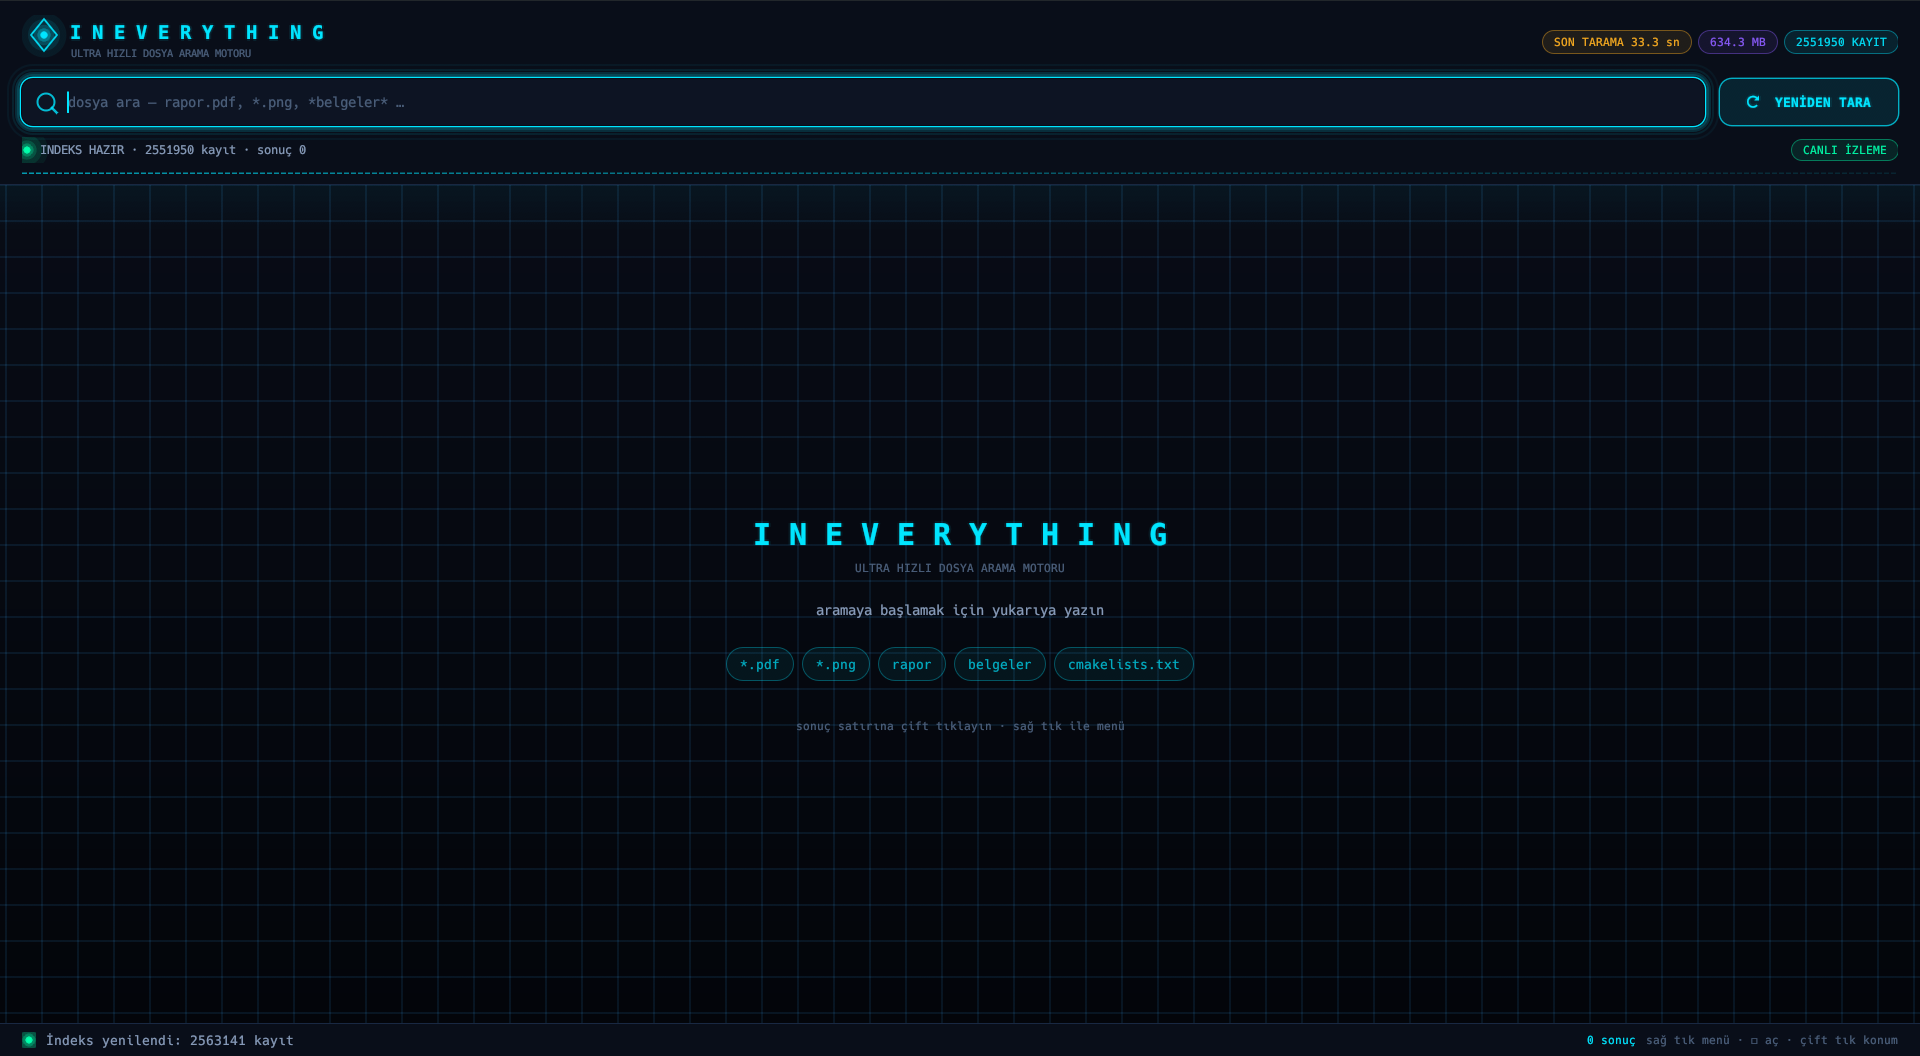
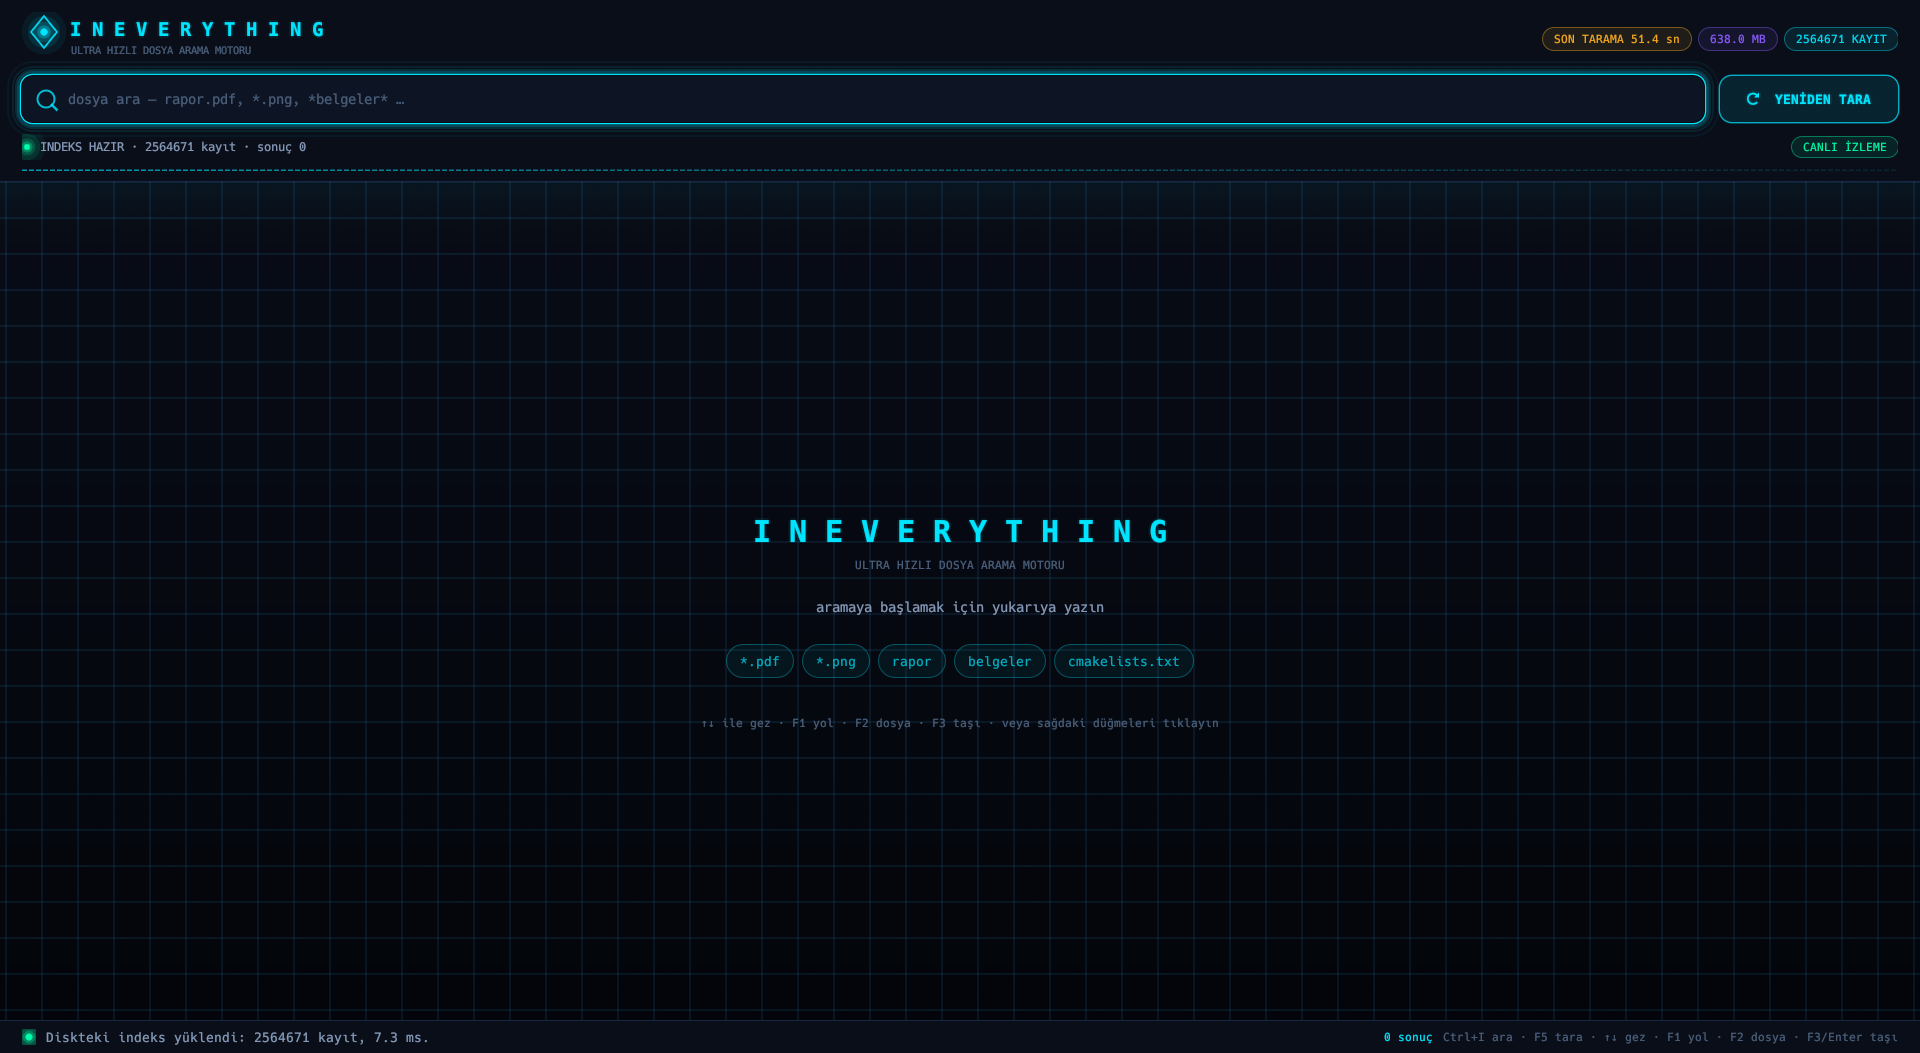
feat(klavye): F1/F2/F3 kısayolları, otomatik ilk satır seçimi, yön tuşu düzeltmesi
- F1 yol kopyala, F2 dosya kopyala, F3/Enter taşı (Ctrl+C winit Copy olayına takılıyordu)
- Yeni sonuçta ilk satır otomatik seçilir, Home/End eklendi
- Her karede arama gönderme düzeltildi (seçim başa sarmıyordu)
- İŞLEM-DEĞİŞTİRİLME aralığı açıldı, README güncellendi

diff --git a/src/app.rs b/src/app.rs
@@ -12,7 +12,7 @@ use std::sync::{
 };
 use std::time::{Duration, SystemTime};
 
-use crossbeam_channel::{Receiver, Sender, TryRecvError};
+use crossbeam_channel::{Receiver, Sender};
 use eframe::egui::{self, Align2, Color32, Pos2, Rect, Rounding, Sense, Vec2};
 
 use crate::{
@@ -47,7 +47,7 @@ const YOL_DEGISTIR_EN: f32 = 94.0;
 /// İki eylem düğmesi arasındaki boşluk.
 const BUTON_ARA: f32 = 6.0;
 /// Düğmeler ile zaman sütunu arasındaki boşluk.
-const BUTON_SOL_PAY: f32 = 12.0;
+const BUTON_SOL_PAY: f32 = 28.0;
 /// Eylem düğmelerinin kapladığı toplam genişlik (zaman sütunu bunu çıkarır).
 const DUGME_ALANI: f32 =
     YOL_KOPYA_EN + BUTON_ARA + DOSYA_KOPYA_EN + BUTON_ARA + YOL_DEGISTIR_EN + BUTON_SOL_PAY;
@@ -269,13 +269,15 @@ impl InEverythingApp {
 
     /// Kanallardan gelen arama sonuçlarını ve değişiklikleri işler.
     fn kanallari_yokla(&mut self) {
-        match self.arama_sonuc_rx.try_recv() {
-            Ok(sonuclar) => {
-                self.sonuclar = sonuclar;
-                self.satirlari_kur();
-                self.secili = None;
-            }
-            Err(TryRecvError::Empty | TryRecvError::Disconnected) => {}
+        // Bekleyen sonuçların en güncesini al; aradakiler bayat sorgulara ait
+        // olabilir. Tek tek uygulamak seçimi her karede başa sarardı.
+        let mut yeni_sonuc = None;
+        while let Ok(sonuclar) = self.arama_sonuc_rx.try_recv() {
+            yeni_sonuc = Some(sonuclar);
+        }
+        if let Some(sonuclar) = yeni_sonuc {
+            self.sonuclar = sonuclar;
+            self.satirlari_kur();
         }
 
         // Tarama bitti: sonuçlar eski indekse ait olabilir.
@@ -287,7 +289,9 @@ impl InEverythingApp {
         }
 
         let mut degisiklik_var = false;
+        let mut canli_degisti = false;
         while let Ok(d) = self.degisiklik_rx.try_recv() {
+            canli_degisti = true;
             if let Ok(mut katman) = self.canli.write() {
                 katman.kaydet(&d);
                 if katman.asildi_mi() && !self.taraniyor.load(Ordering::Relaxed) {
@@ -298,7 +302,13 @@ impl InEverythingApp {
         if degisiklik_var {
             self.tarama_tetikle(&self.yapilandirma.etkin_kokler());
         } else if !self.sorgu_metni.trim().is_empty() {
-            self.aramayi_tetikle();
+            // Her karede arama gönderme: seçim başa sarar ve kanalı şişirir.
+            // Yalnızca sorgu değiştiyse ya da canlı katman değiştiyse ara.
+            if self.sorgu_metni != self.son_sorgu || canli_degisti {
+                self.aramayi_tetikle();
+            }
+        } else if self.sorgu_metni != self.son_sorgu {
+            self.son_sorgu = self.sorgu_metni.clone();
         }
     }
 
@@ -316,6 +326,9 @@ impl InEverythingApp {
     }
 
     /// Sonuç vektöründen çizilecek satır listesini kurar.
+    ///
+    /// Yeni sonuç geldiğinde seçim doğal olarak en üst satıra alınır, böylece
+    /// yön tuşları ve F1/F2/F3 kısayolları ek tuşa gerek kalmadan çalışır.
     fn satirlari_kur(&mut self) {
         self.satirlar.clear();
         self.satirlar.extend(
@@ -332,6 +345,8 @@ impl InEverythingApp {
                 .take(self.yapilandirma.sonuc_limiti)
                 .map(|konum| Satir::Indeks(*konum)),
         );
+        self.secili = self.satirlar.first().map(satir_konumu);
+        self.secili_gorunur = false;
     }
 
     /// İndeksteki kayıt sayısı.
@@ -342,14 +357,16 @@ impl InEverythingApp {
             .unwrap_or(0)
     }
 
-    /// Seçili satırın yolunu döndürür; seçim yoksa en üst satırın yolunu.
+    /// Seçili satırın yolunu döndürür; seçim yoksa ya da bayatsa en üst
+    /// satırın yolunu.
     fn secili_veya_ilk_yolu(&self) -> Option<PathBuf> {
         let satir = match self.secili {
             Some(konum) => self
                 .satirlar
                 .iter()
                 .find(|s| satir_konumu(s) == konum)
-                .copied(),
+                .copied()
+                .or_else(|| self.satirlar.first().copied()),
             None => self.satirlar.first().copied(),
         }?;
         let okunan = self.indeks.read();
@@ -367,6 +384,18 @@ impl InEverythingApp {
     /// Seçimi bir önceki satıra taşır; seçim yoksa en alt satırı seçer.
     fn yukari_git(&mut self) {
         self.secili = onceki_konum(&self.satirlar, self.secili);
+        self.secili_gorunur = true;
+    }
+
+    /// Seçimi en üst satıra alır (Home).
+    fn basa_git(&mut self) {
+        self.secili = self.satirlar.first().map(satir_konumu);
+        self.secili_gorunur = true;
+    }
+
+    /// Seçimi en alt satıra alır (End).
+    fn sona_git(&mut self) {
+        self.secili = self.satirlar.last().map(satir_konumu);
         self.secili_gorunur = true;
     }
 
@@ -537,7 +566,6 @@ impl InEverythingApp {
             if self.sorgu_metni.trim().is_empty() {
                 self.sonuclar = Sonuclar::default();
                 self.satirlari_kur();
-                self.secili = None;
             } else {
                 self.aramayi_tetikle();
             }
@@ -835,7 +863,7 @@ impl InEverythingApp {
         p.text(
             Pos2::new(merkez.x, y + 78.0),
             Align2::CENTER_CENTER,
-            "sonuç satırına çift tıklayın · sağdaki YOLU KOPYALA, DOSYAYI KOPYALA ve YOLU DEĞİŞTİR düğmeleri",
+            "↑↓ ile gez · F1 yol · F2 dosya · F3 taşı · veya sağdaki düğmeleri tıklayın",
             tema::mono(11.0),
             tema::METIN_3,
         );
@@ -899,10 +927,10 @@ impl InEverythingApp {
             ui.with_layout(egui::Layout::right_to_left(egui::Align::Center), |ui| {
                 ui.label(
                     egui::RichText::new(
-                        "Ctrl+I ara · F5 tara · ↑↓ gez · Ctrl+Shift+C yol · Ctrl+C dosya · Enter taşı",
+                        "Ctrl+I ara · F5 tara · ↑↓ gez · F1 yol · F2 dosya · F3/Enter taşı",
                     )
-                        .font(tema::mono(11.0))
-                        .color(tema::METIN_3),
+                    .font(tema::mono(11.0))
+                    .color(tema::METIN_3),
                 );
                 ui.label(
                     egui::RichText::new(format!("{} sonuç", self.sonuclar.toplam()))
@@ -1015,16 +1043,31 @@ impl eframe::App for InEverythingApp {
     fn update(&mut self, ctx: &egui::Context, _cerceve: &mut eframe::Frame) {
         self.kanallari_yokla();
 
-        let (odak_istek, yeniden_tara, asagi, yukari, ctrl_c, ctrl_shift_c, enter) =
+        // Not: winit, Ctrl+C / Ctrl+Shift+C'yi `Event::Copy`'ye çevirip `Key::C`
+        // olayı üretmez; bu yüzden dosya işlemleri için F1/F2/F3 ve Ctrl+1/2/3
+        // kullanılır. Eski Ctrl+C tabanlı kısayollar da (web gibi Key olayı
+        // gelen platformlar için) yedek olarak dinlenmeye devam eder.
+        let (odak_istek, yeniden_tara, asagi, yukari, basa, sona, yol_kopya, dosya_kopya, tasi) =
             ctx.input(|g| {
+                let ctrl = g.modifiers.ctrl || g.modifiers.command;
+                let eski_yol = g.key_pressed(egui::Key::C) && ctrl && g.modifiers.shift;
+                let eski_dosya = g.key_pressed(egui::Key::C) && ctrl && !g.modifiers.shift;
                 (
-                    g.key_pressed(egui::Key::I) && g.modifiers.ctrl,
+                    g.key_pressed(egui::Key::I) && ctrl,
                     g.key_pressed(egui::Key::F5),
                     g.key_pressed(egui::Key::ArrowDown),
                     g.key_pressed(egui::Key::ArrowUp),
-                    g.key_pressed(egui::Key::C) && g.modifiers.ctrl,
-                    g.key_pressed(egui::Key::C) && g.modifiers.ctrl && g.modifiers.shift,
-                    g.key_pressed(egui::Key::Enter),
+                    g.key_pressed(egui::Key::Home),
+                    g.key_pressed(egui::Key::End),
+                    g.key_pressed(egui::Key::F1)
+                        || (g.key_pressed(egui::Key::Num1) && ctrl)
+                        || eski_yol,
+                    g.key_pressed(egui::Key::F2)
+                        || (g.key_pressed(egui::Key::Num2) && ctrl)
+                        || eski_dosya,
+                    g.key_pressed(egui::Key::Enter)
+                        || g.key_pressed(egui::Key::F3)
+                        || (g.key_pressed(egui::Key::Num3) && ctrl),
                 )
             });
         if odak_istek {
@@ -1039,16 +1082,22 @@ impl eframe::App for InEverythingApp {
         if yukari {
             self.yukari_git();
         }
-        if ctrl_shift_c {
+        if basa {
+            self.basa_git();
+        }
+        if sona {
+            self.sona_git();
+        }
+        if yol_kopya {
             if let Some(yol) = self.secili_veya_ilk_yolu() {
                 self.durum_mesaji = Self::eylemi_uygula(Eylem::YoluKopyala(yol));
             }
-        } else if ctrl_c {
+        } else if dosya_kopya {
             if let Some(yol) = self.secili_veya_ilk_yolu() {
                 self.durum_mesaji = Self::eylemi_uygula(Eylem::DosyaKopyala(yol));
             }
         }
-        if enter {
+        if tasi {
             if let Some(yol) = self.secili_veya_ilk_yolu() {
                 self.durum_mesaji = Self::eylemi_uygula(Eylem::YoluDegistir(yol));
             }
@@ -1400,17 +1449,17 @@ fn satiri_ciz(
     // sağdaki eylem düğmeleri: yolu kopyala, dosyayı kopyala, yolu değiştir
     let yol_tanim = DugmeTanimi {
         etiket: "YOLU KOPYALA",
-        ipucu: "Dosya yolunu panoya kopyala",
+        ipucu: "Dosya yolunu panoya kopyala (F1)",
         renk: tema::TURUNCU,
     };
     let dosya_tanim = DugmeTanimi {
         etiket: "DOSYAYI KOPYALA",
-        ipucu: "Dosyayı panoya kopyala (Ctrl+C gibi)",
+        ipucu: "Dosyayı panoya kopyala (F2)",
         renk: tema::MOR,
     };
     let degistir_tanim = DugmeTanimi {
         etiket: "YOLU DEĞİŞTİR",
-        ipucu: "Dosyayı başka klasöre taşı — hedefi dosya yöneticisinden seç",
+        ipucu: "Dosyayı başka klasöre taşı — hedefi dosya yöneticisinden seç (F3/Enter)",
         renk: tema::NEON,
     };
     let (yol_d, dosya_d, degistir_d) = satir_dugmeleri(alan);
@@ -1462,6 +1511,9 @@ fn satir_konumu(satir: &Satir) -> usize {
 }
 
 /// Seçimi bir sonraki satıra taşır; seçim yoksa en üst satırı seçer.
+///
+/// Seçim artık listede yoksa (bayat sonuç) başa sarar; yoksa yön tuşları
+/// ölü takılırdı.
 fn sonraki_konum(satirlar: &[Satir], secili: Option<usize>) -> Option<usize> {
     if satirlar.is_empty() {
         return None;
@@ -1469,15 +1521,16 @@ fn sonraki_konum(satirlar: &[Satir], secili: Option<usize>) -> Option<usize> {
     let konumlar: Vec<usize> = satirlar.iter().map(satir_konumu).collect();
     Some(match secili {
         None => konumlar[0],
-        Some(secili) => konumlar
-            .iter()
-            .position(|&k| k == secili)
-            .and_then(|i| konumlar.get(i + 1).copied())
-            .unwrap_or(secili),
+        Some(secili) => match konumlar.iter().position(|&k| k == secili) {
+            Some(i) => konumlar.get(i + 1).copied().unwrap_or(secili),
+            None => konumlar[0],
+        },
     })
 }
 
 /// Seçimi bir önceki satıra taşır; seçim yoksa en alt satırı seçer.
+///
+/// Seçim artık listede yoksa (bayat sonuç) en üste döner.
 fn onceki_konum(satirlar: &[Satir], secili: Option<usize>) -> Option<usize> {
     if satirlar.is_empty() {
         return None;
@@ -1485,12 +1538,10 @@ fn onceki_konum(satirlar: &[Satir], secili: Option<usize>) -> Option<usize> {
     let konumlar: Vec<usize> = satirlar.iter().map(satir_konumu).collect();
     Some(match secili {
         None => konumlar[konumlar.len() - 1],
-        Some(secili) => konumlar
-            .iter()
-            .position(|&k| k == secili)
-            .and_then(|i| i.checked_sub(1))
-            .map(|i| konumlar[i])
-            .unwrap_or(secili),
+        Some(secili) => match konumlar.iter().position(|&k| k == secili) {
+            Some(i) => i.checked_sub(1).map(|j| konumlar[j]).unwrap_or(secili),
+            None => konumlar[0],
+        },
     })
 }
 
@@ -1795,5 +1846,47 @@ mod testler {
         assert_eq!(dosya_rengi("main.rs", false), tema::YESIL);
         assert_eq!(dosya_rengi("klasor", true), tema::MOR);
         assert_eq!(dosya_rengi("bilinmiyor", false), tema::METIN_3);
+    }
+
+    #[test]
+    fn islem_zaman_arasi_acik_kalir() {
+        // Kullanıcı şikâyeti: İŞLEM düğmeleri ile DEĞİŞTİRİLME sütunu
+        // birbirine giriyordu. En az 24px nefes payı korunmalı.
+        assert!(
+            BUTON_SOL_PAY >= 24.0,
+            "BUTON_SOL_PAY en az 24 olmalı, aksi halde sütunlar yapışır"
+        );
+        for en in [1100.0, 900.0, 520.0] {
+            let alan = Rect::from_min_size(Pos2::ZERO, Vec2::new(en, SATIR_Y));
+            let sutun = sutunlari_hesapla(alan);
+            let (yol, _, _) = satir_dugmeleri(alan);
+            assert!(
+                yol.left() - sutun.zaman >= 24.0,
+                "{en}px pencerede işlem-zaman arası daraldı"
+            );
+        }
+    }
+
+    #[test]
+    fn yeni_sonuclar_en_ust_satiri_secer() {
+        // Yeni arama sonucu gelince seçim doğal olarak en üst satırda olur;
+        // yön tuşları ve F1/F2/F3 ek tuşa gerek kalmadan çalışır.
+        let satirlar = ornek_satirlar();
+        let ilk = satirlar.first().map(satir_konumu);
+        assert_eq!(ilk, Some(0));
+        assert_eq!(sonraki_konum(&satirlar, ilk), Some(1));
+        assert_eq!(sonraki_konum(&satirlar, None), Some(0));
+    }
+
+    #[test]
+    fn bayat_secim_yon_tuslarini_kilitlemez() {
+        // Sonuçlar yenilenip eski konum listede kalmasa bile ↑↓ çalışmalı:
+        // başa sarar, ölü takılmaz.
+        let satirlar = ornek_satirlar();
+        assert_eq!(sonraki_konum(&satirlar, Some(9999)), Some(0));
+        assert_eq!(onceki_konum(&satirlar, Some(9999)), Some(0));
+        // Sonda takılma yok: sonda ↓ kalır, başta ↑ kalır.
+        assert_eq!(sonraki_konum(&satirlar, Some(3)), Some(3));
+        assert_eq!(onceki_konum(&satirlar, Some(0)), Some(0));
     }
 }

diff --git a/README.md b/README.md
@@ -12,8 +12,9 @@ Everything benzeri, anlık açılan ultra hızlı dosya arama uygulaması (Rust 
 - Canlı izleme (`notify`): eklenen/silen dosyalar anında yansır, 20 bin değişiklikte indeks otomatik yenilenir
 - Uzantı filtresi (`*.pdf`) ve birleşik sorgu (`*.pdf rapor`)
 - Sanallaştırılmış sonuç listesi (varsayılan 10 bin satır akıcı)
-- Sağ tık menüsü: aç, dosya konumunu aç, yolu kopyala
-- Satır sağında YOLU KOPYALA / DOSYAYI KOPYALA / YOLU DEĞİŞTİR düğmeleri; yolu panoya kopyalama, dosyayı dosya yöneticisiyle seçilen klasöre kopyalama ve dosyayı taşıma
+- Sağ tık menüsü: aç, dosya konumunu aç, yolu kopyala, dosyayı panoya kopyala, yolu değiştir
+- Satır sağında YOLU KOPYALA / DOSYAYI KOPYALA / YOLU DEĞİŞTİR düğmeleri; yolu ve dosyayı panoya kopyalama, dosyayı taşıma
+- Klavye kısayolları: Ctrl+I arama, F5 tara, ↑↓/Home/End gezinme, F1 yol kopyala, F2 dosya kopyala, F3/Enter taşı
 - Futuristik neon tema, gömülü logo, Windows/macOS/Linux desteği
 
 ## Kurulum
@@ -36,12 +37,13 @@ Projenin nasıl kullanılacağına dair örnek:
 ./target/release/InEverything
 ```
 
-Arama kutusuna yazmaya başlayın; sonuçlar yazarken filtrelenir. Satır
-**çift tık** ile dosya açılır, **sağ tık** menüsünde `Aç`,
-`Dosya konumunu aç` ve `Yolu kopyala` bulunur. Satır sağındaki
-**YOLU KOPYALA** panoya kopyalar, **DOSYAYI KOPYALA** dosya yöneticisi
-penceresiyle hedef klasür seçtirip dosyayı oraya kopyalar,
-**YOLU DEĞİŞTİR** ise dosyayı seçilen klasöre taşır.
+Arama kutusuna yazmaya başlayın; sonuçlar yazarken filtrelenir, ilk satır
+otomatik seçilir. Satır **çift tık** ile dosya açılır, **sağ tık** menüsünde
+`Aç`, `Dosya konumunu aç`, `Yolu kopyala`, `Dosyayı panoya kopyala` ve
+`Yolu değiştir` bulunur. Satır sağındaki **YOLU KOPYALA** yolu panoya,
+**DOSYAYI KOPYALA** dosyayı panoya kopyalar, **YOLU DEĞİŞTİR** ise dosyayı
+seçilen klasöre taşır. Klavyeden `↑↓` ile gezinip `F1`/`F2`/`F3` ile aynı
+işlemler yapılır.
 
 Yapılandırma `~/.config/InEverything/config.json`, indeks
 `~/.local/share/InEverything/indeks.bin` altında tutulur.
